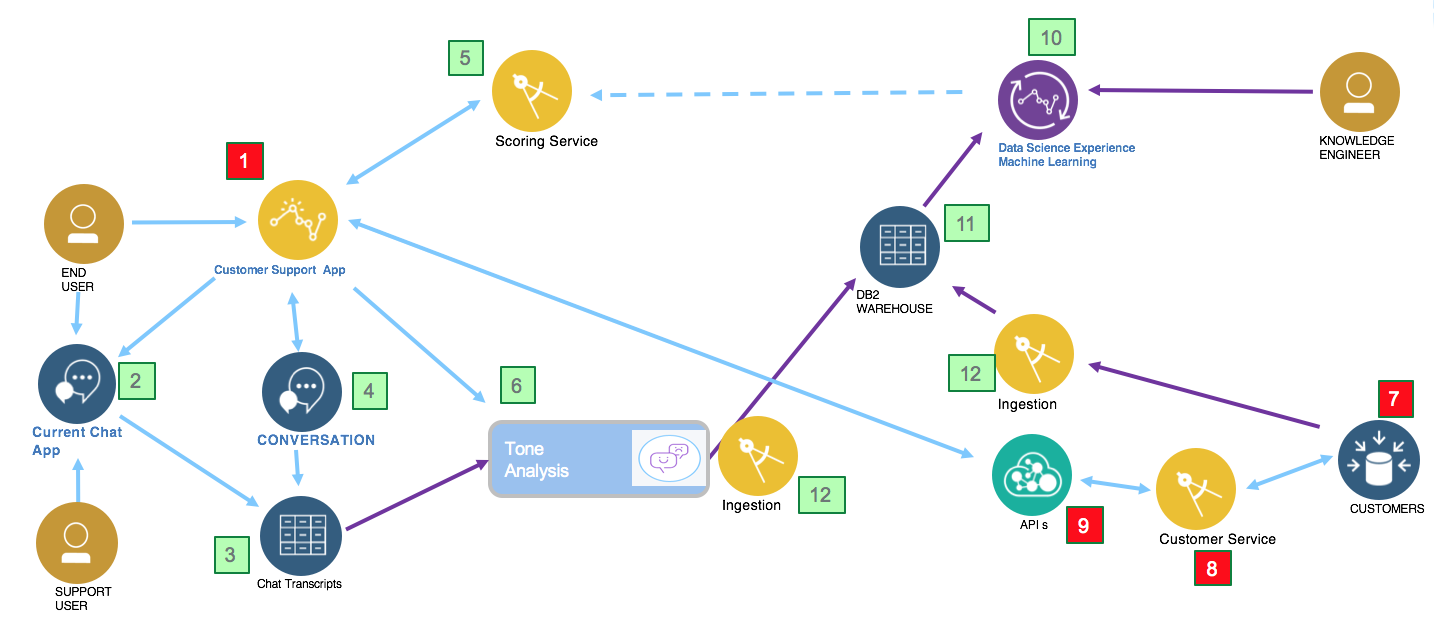
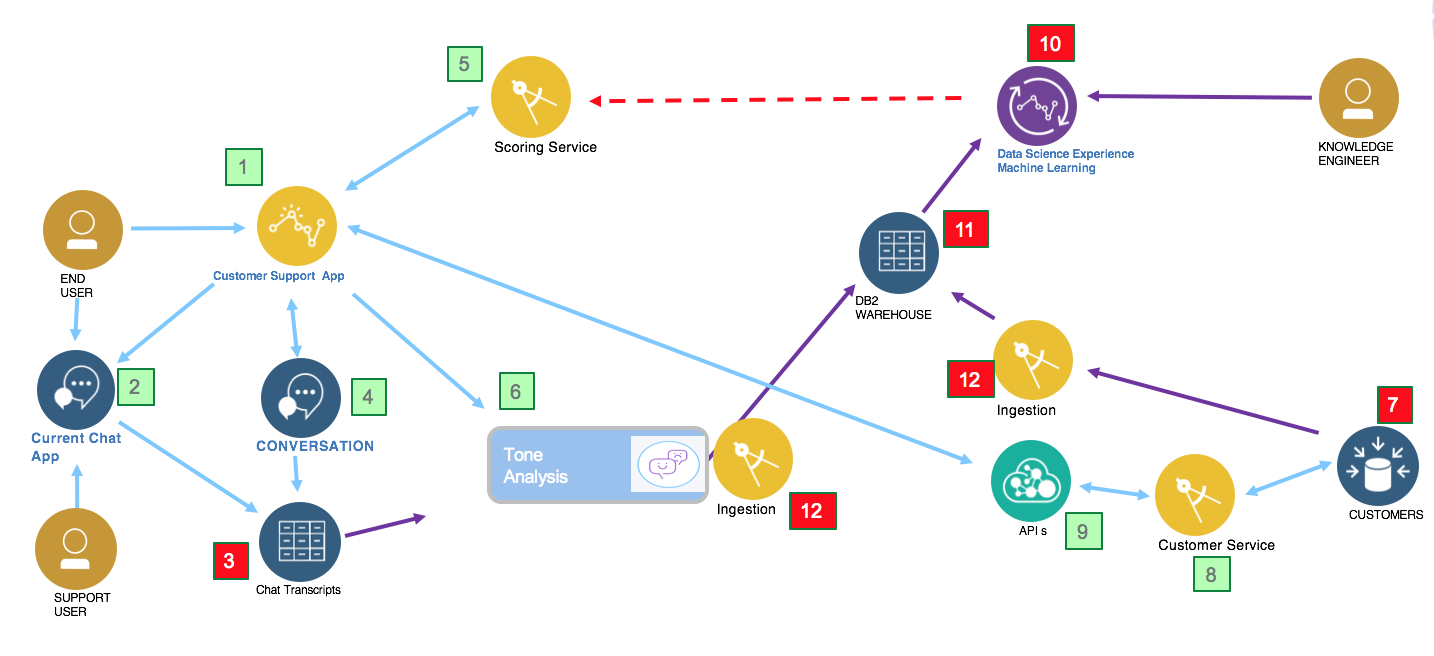
Update UI, add ICP deployment in code.md, update flow

diff --git a/src/client/app/home.component.html b/src/client/app/home.component.html
@@ -24,7 +24,7 @@
   <div class="col-md-6">
     <div class="roundRect" style="box-shadow: 3px 3px 1px #05870b; border-color: #05870b;">
       <h2>Support Help</h2>
-      <p>Get help</p>
+      <p>Need help about your device or account? </p>
       <p><button (click)="itSupport()" class="btn btn-primary">Ask me</button></p>
     </div>
   </div>

diff --git a/docs/code.md b/docs/code.md
@@ -191,5 +191,58 @@ getCustomerByEmail : function(config,req,res){
 
 ```
 ### ICP deployment
+For this web application we are following the same steps introduced within the [Brown Case Web app application](https://github.com/ibm-cloud-architecture/refarch-caseinc-app/blob/master/docs/icp/README.md) and can be summarized as:
+* Compile the app: `ng build`
+* Create docker images: `docker build -t ibmcase/greenapp . `
+* Tag the image with the docker repository name, version: `docker tag ibmcase/greenapp greencluster.icp:8500/greencompute/greenapp:v0.0.2`
+* Push the docker images to the docker repository running on the Master node of ICP:
+```
+$ docker login greencluster.icp:8500
+$ docker push greencluster.icp:8500/greencompute/greenapp:v0.0.2
+```
+* Be sure the parameter of the config object in the `values.yaml` for the kubernetes deployment use the values of the environment.
+```yaml
+config:
+  conversation:
+    version: v1
+    versionDate: 2017-05-26
+    username: 291d9
+    password: ss
+    conversationId: Complex Relocation
+    workspace: a92
+    usePersistence: false
+  customerAPI:
+    url: https://172.16.50.8:443/csplab/sb
+    host: greencustomerms-green-customerms
+    xibmclientid: <>
+  toneAnalyzer:
+    url: https://gateway.watsonplatform.net/tone-analyzer/api
+    versionDate: 2017-09-21
+    username: <>
+    password: <>
+  dbCredentials:
+    url: https://<>
+```
+In the settings above the URL for the customer API is going to the API gateway.
+
+* Change the virtual hostname if you want to. The current name is `greenapp.green.case`, and if you have existing Ingress rule that defines the same hostname, you need to take care of that.
+* Be sure to be connected to the kubernete server with commands like:
+```
+kubectl config set-cluster greencluster.icp --server=https://172.16.40.130:8001 --insecure-skip-tls-verify=true
+kubectl config set-context greencluster.icp-context --cluster=greencluster.icp
+kubectl config set-credentials admin --token=<>
+kubectl config set-context greencluster.icp-context --user=admin --namespace=browncompute
+kubectl config use-context greencluster.icp-context
+
+```
+* Install the Helm release with the greencompute namespace: `helm install green-customerapp --name green-customerapp --namespace greencompute`
+
+![](greeapp-deployed.png)
+
+* Be sure you have name resolution from the hostname you set in values.yaml and IP address of the ICP proxy. Use your local '/etc/hosts' file for that. In production, set your local DNS with this name resolution.
+
+* Test by accessing the URL: `http://http://greenapp.green.case/`
+
+
 ## Customer Micro service
 The back end customer management function is a micro service in its separate repository, and the code implementation explanation can be read [here.](https://github.com/ibm-cloud-architecture/refarch-integration-services#code-explanation)
